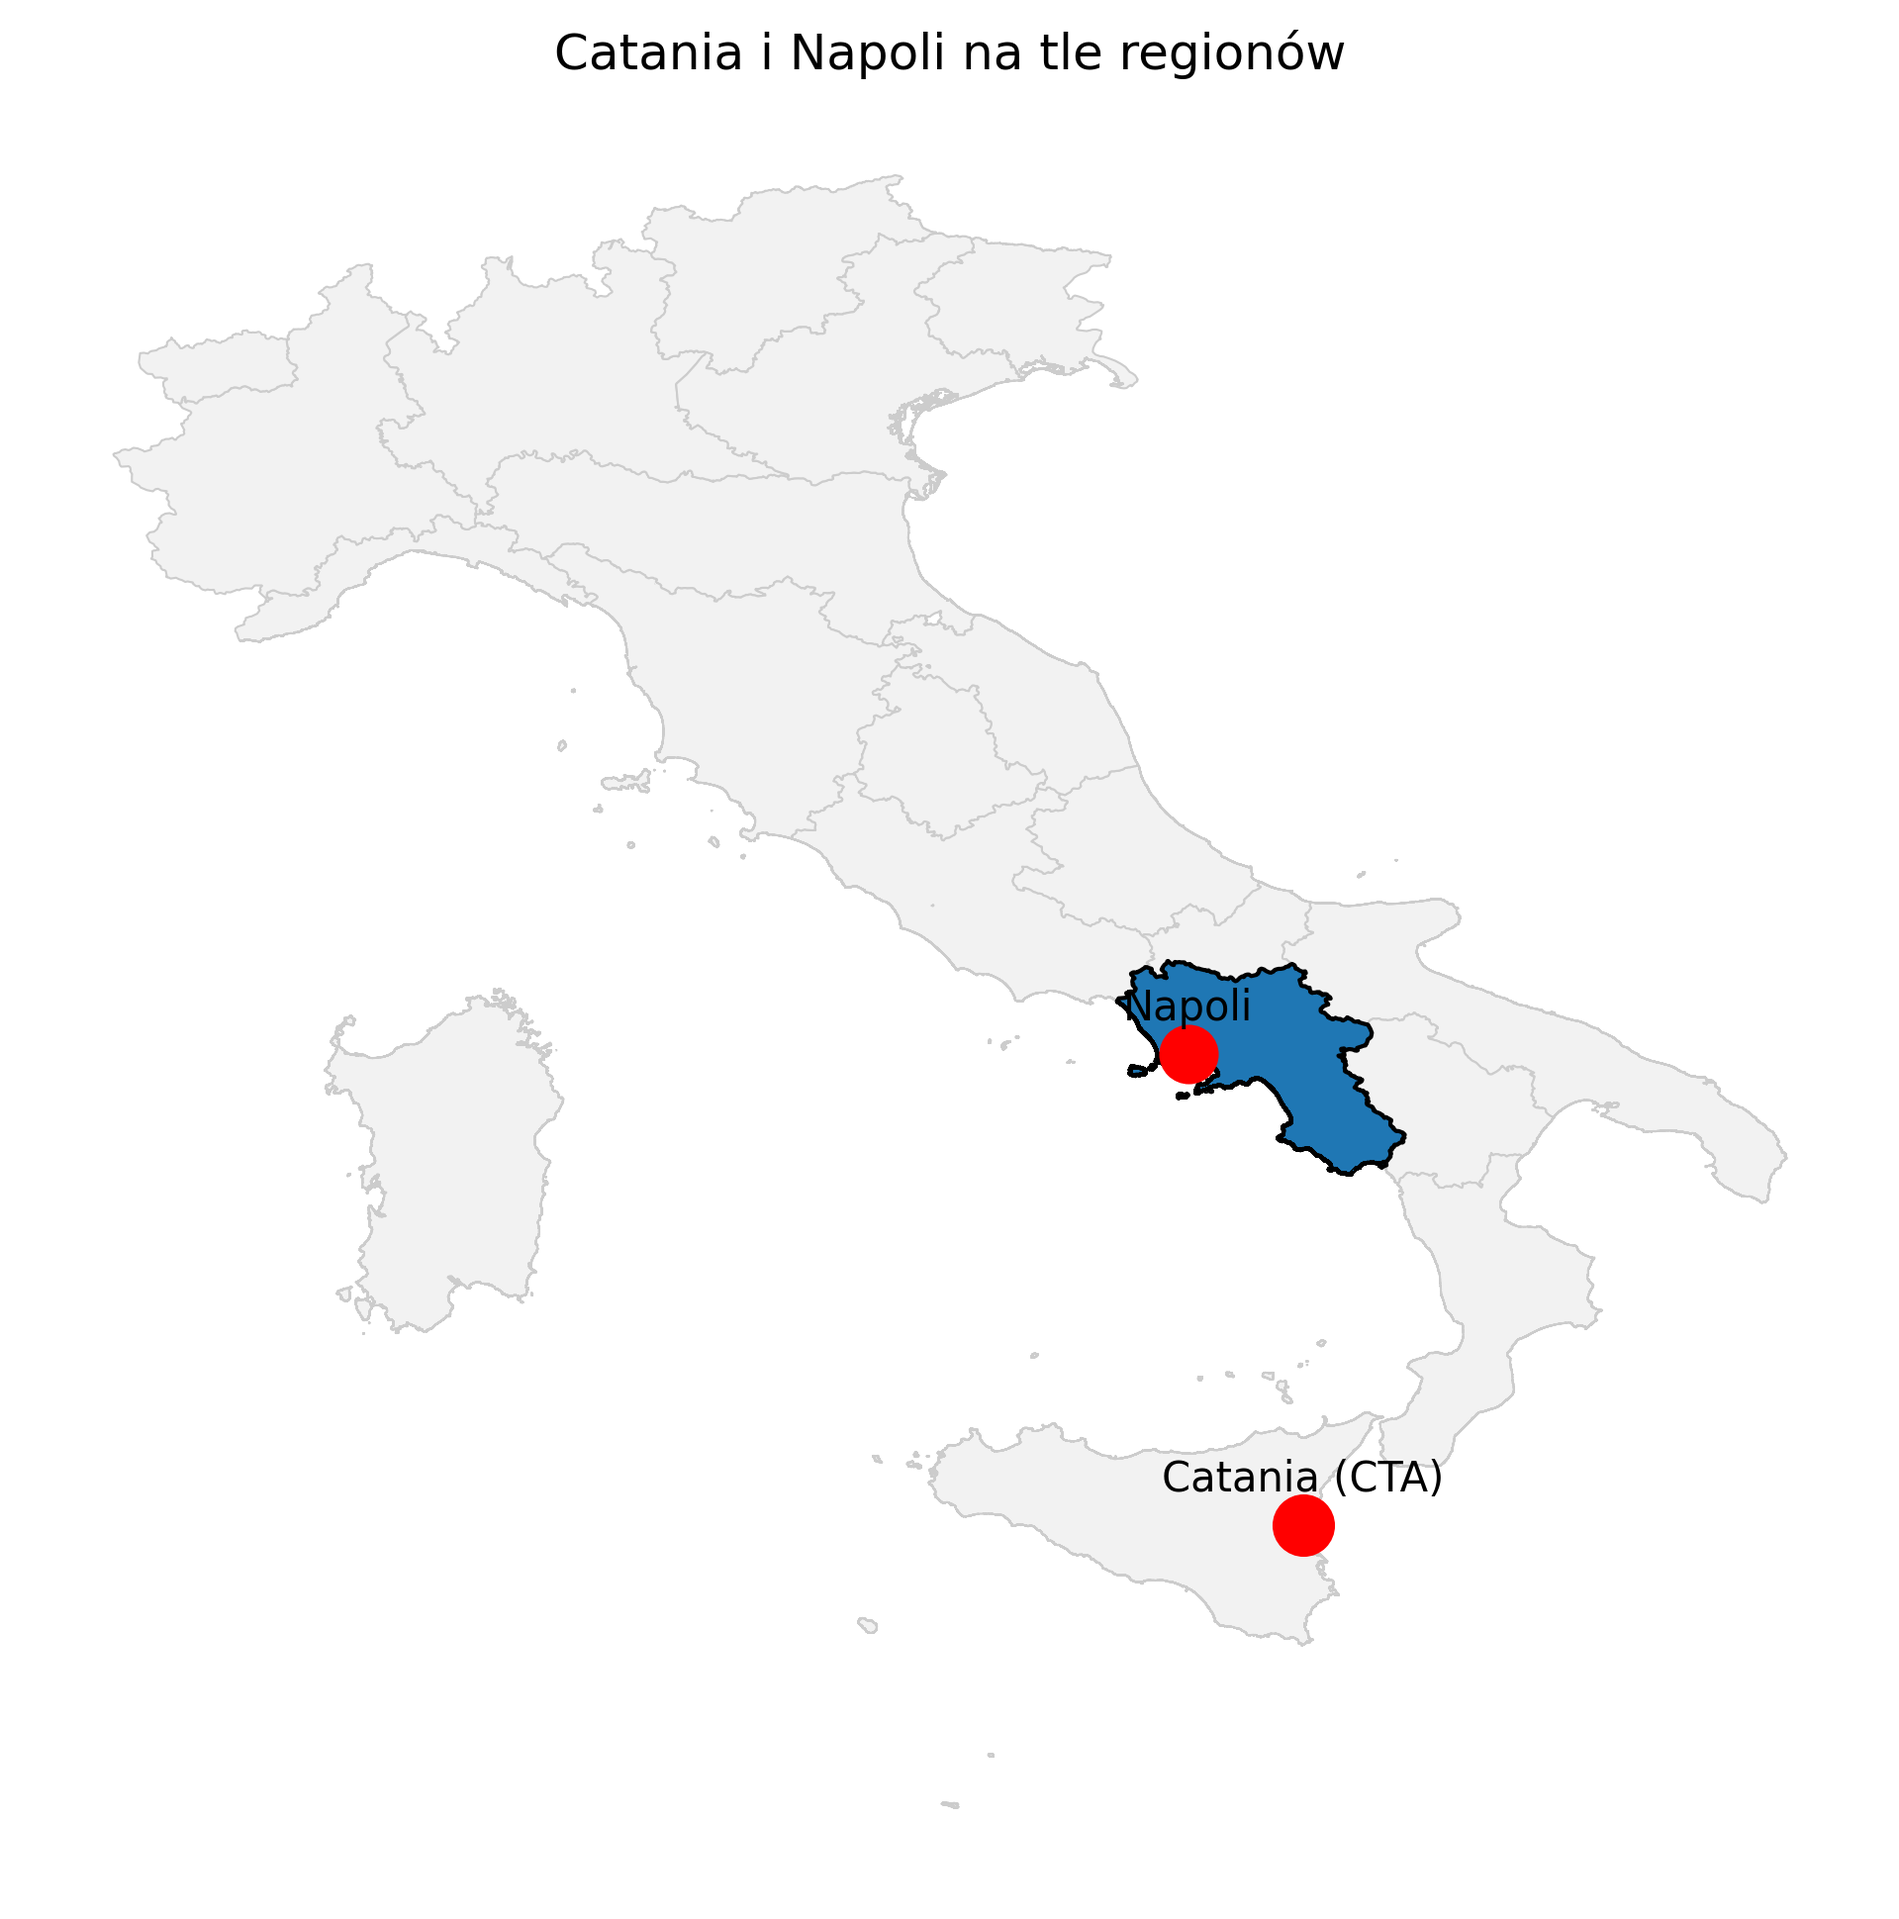
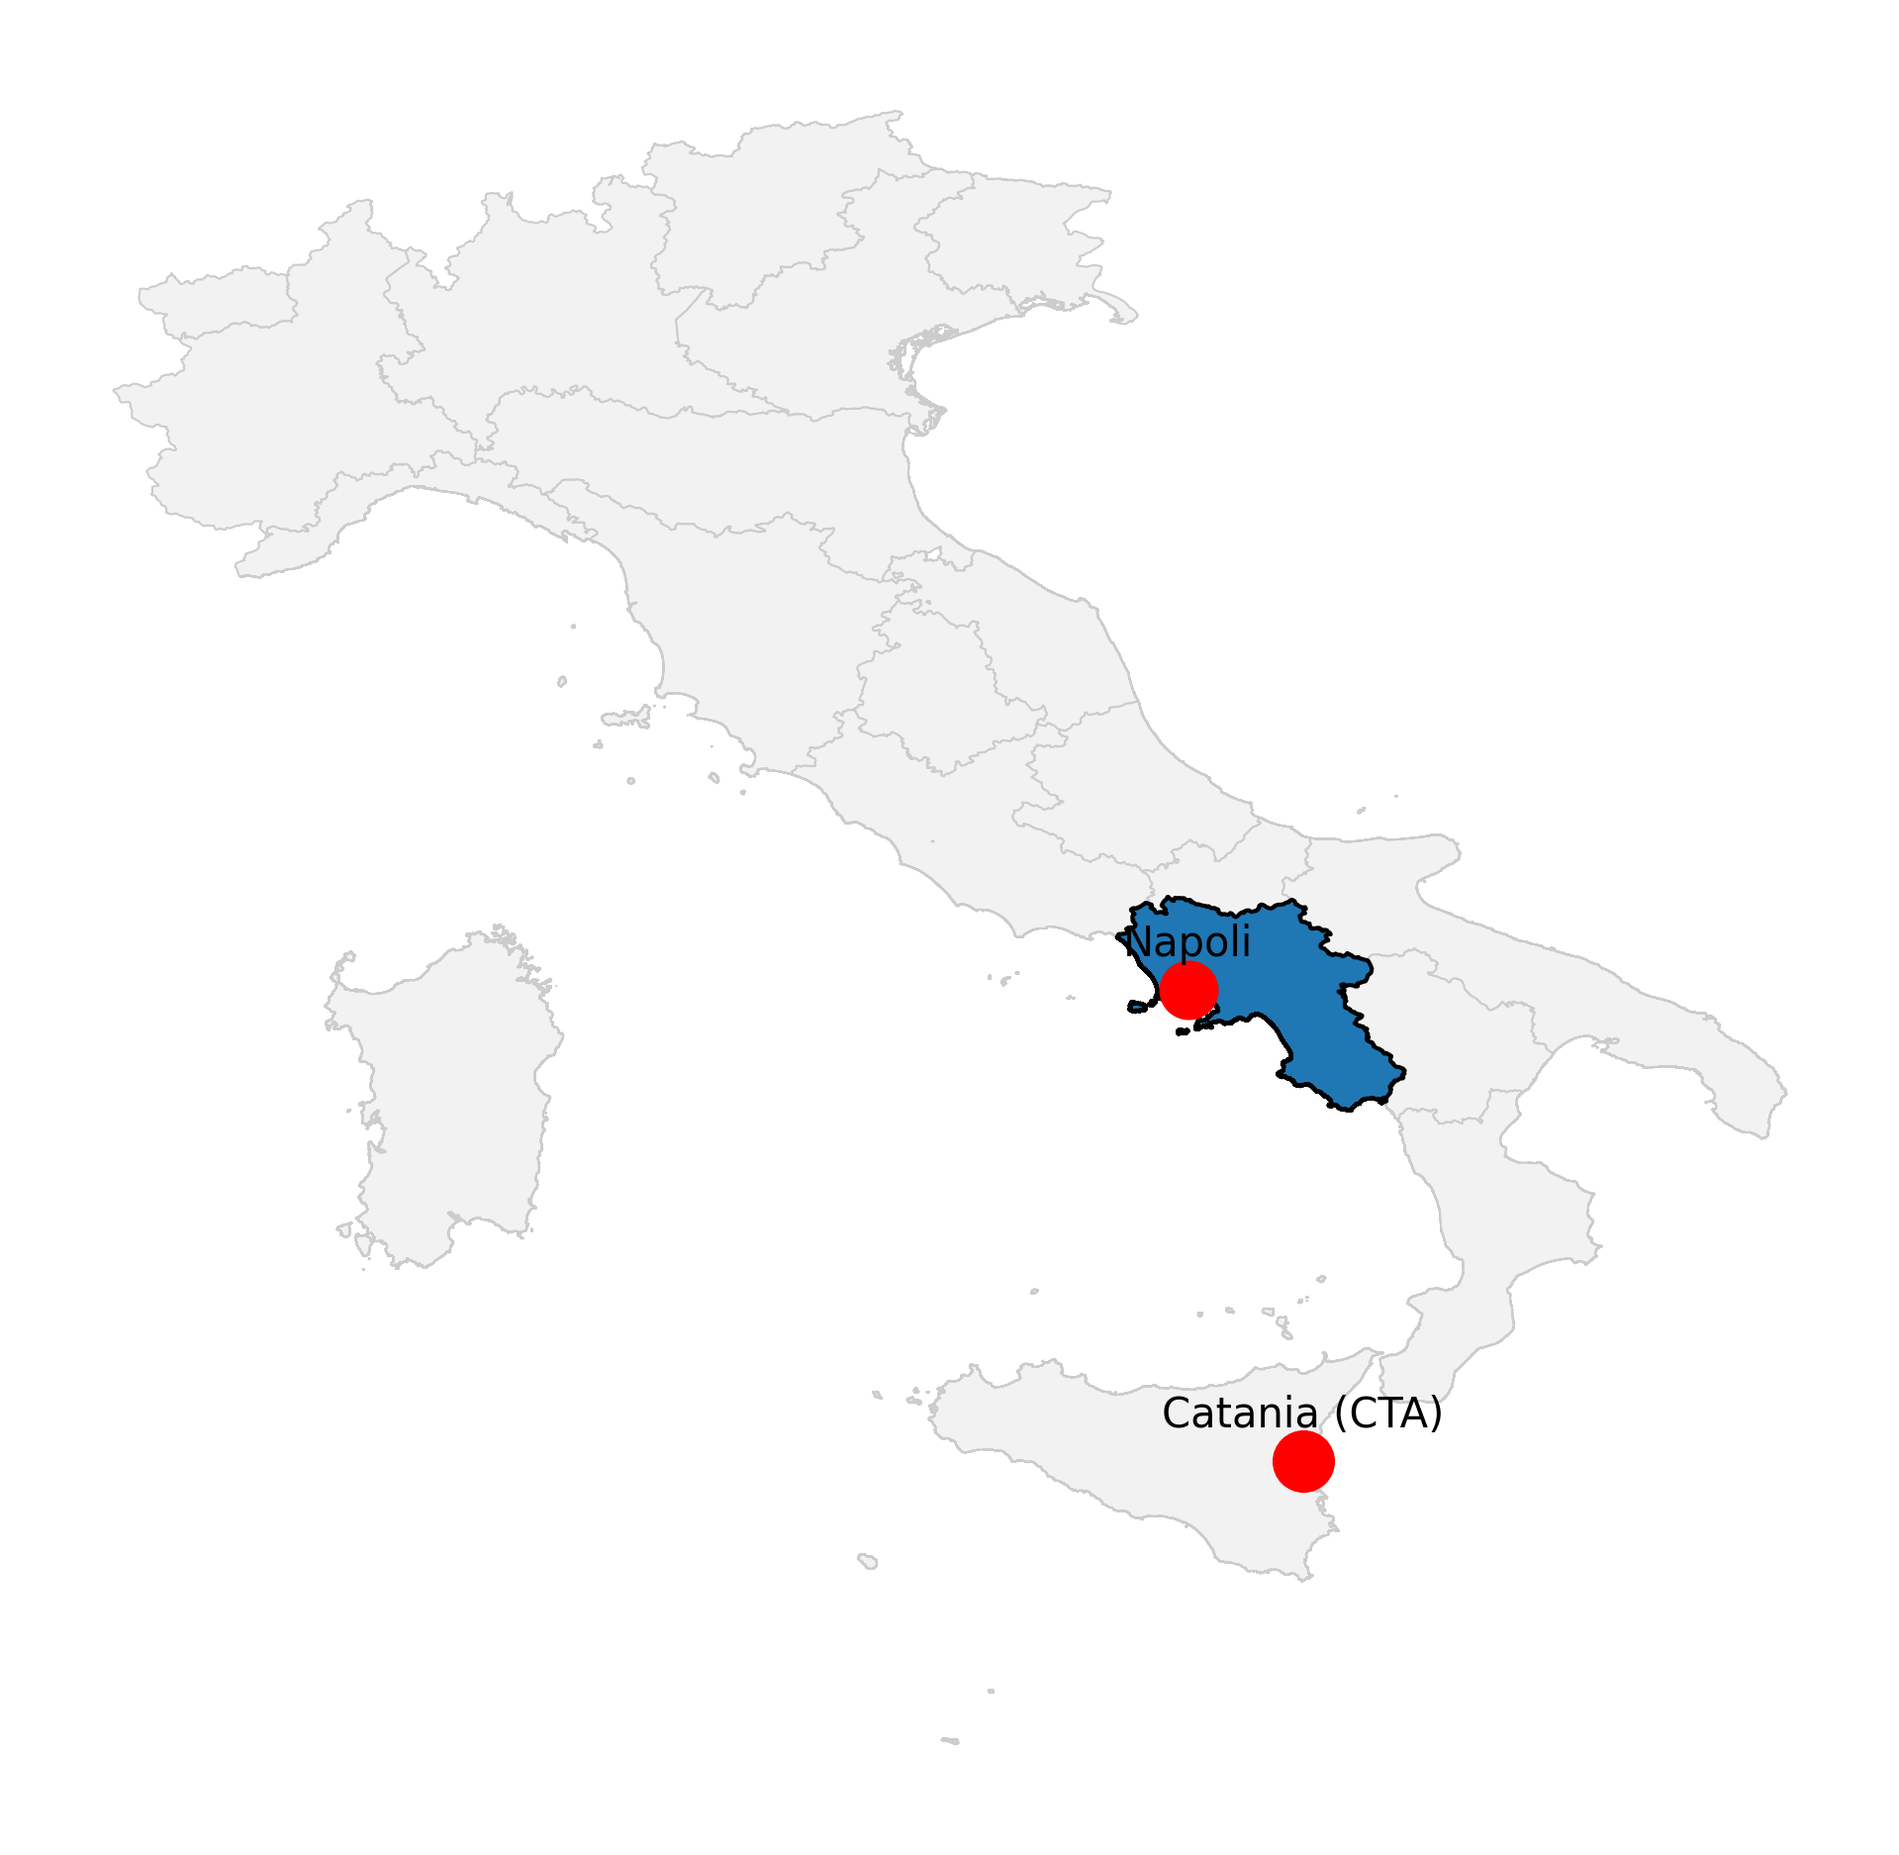
Updating repo with new exercises

diff --git a/map.html b/map.html
@@ -1,0 +1,197 @@
+<!DOCTYPE html>
+<html>
+<head>
+    
+    <meta http-equiv="content-type" content="text/html; charset=UTF-8" />
+    <script src="https://cdn.jsdelivr.net/npm/leaflet@1.9.3/dist/leaflet.js"></script>
+    <script src="https://code.jquery.com/jquery-3.7.1.min.js"></script>
+    <script src="https://cdn.jsdelivr.net/npm/bootstrap@5.2.2/dist/js/bootstrap.bundle.min.js"></script>
+    <script src="https://cdnjs.cloudflare.com/ajax/libs/Leaflet.awesome-markers/2.0.2/leaflet.awesome-markers.js"></script>
+    <link rel="stylesheet" href="https://cdn.jsdelivr.net/npm/leaflet@1.9.3/dist/leaflet.css"/>
+    <link rel="stylesheet" href="https://cdn.jsdelivr.net/npm/bootstrap@5.2.2/dist/css/bootstrap.min.css"/>
+    <link rel="stylesheet" href="https://netdna.bootstrapcdn.com/bootstrap/3.0.0/css/bootstrap-glyphicons.css"/>
+    <link rel="stylesheet" href="https://cdn.jsdelivr.net/npm/@fortawesome/fontawesome-free@6.2.0/css/all.min.css"/>
+    <link rel="stylesheet" href="https://cdnjs.cloudflare.com/ajax/libs/Leaflet.awesome-markers/2.0.2/leaflet.awesome-markers.css"/>
+    <link rel="stylesheet" href="https://cdn.jsdelivr.net/gh/python-visualization/folium/folium/templates/leaflet.awesome.rotate.min.css"/>
+    
+            <meta name="viewport" content="width=device-width,
+                initial-scale=1.0, maximum-scale=1.0, user-scalable=no" />
+            <style>
+                #map_5f5148381c76a7a6cb5308b8fe52db0f {
+                    position: relative;
+                    width: 100.0%;
+                    height: 100.0%;
+                    left: 0.0%;
+                    top: 0.0%;
+                }
+                .leaflet-container { font-size: 1rem; }
+            </style>
+
+            <style>html, body {
+                width: 100%;
+                height: 100%;
+                margin: 0;
+                padding: 0;
+            }
+            </style>
+
+            <style>#map {
+                position:absolute;
+                top:0;
+                bottom:0;
+                right:0;
+                left:0;
+                }
+            </style>
+
+            <script>
+                L_NO_TOUCH = false;
+                L_DISABLE_3D = false;
+            </script>
+
+        
+</head>
+<body>
+    
+    
+            <div class="folium-map" id="map_5f5148381c76a7a6cb5308b8fe52db0f" ></div>
+        
+</body>
+<script>
+    
+    
+            var map_5f5148381c76a7a6cb5308b8fe52db0f = L.map(
+                "map_5f5148381c76a7a6cb5308b8fe52db0f",
+                {
+                    center: [41.87, 12.56],
+                    crs: L.CRS.EPSG3857,
+                    ...{
+  "zoom": 6,
+  "zoomControl": true,
+  "preferCanvas": false,
+}
+
+                }
+            );
+
+            
+
+        
+    
+            var tile_layer_66d8d411c008f0a65dcb6d50efeb89b3 = L.tileLayer(
+                "https://tile.openstreetmap.org/{z}/{x}/{y}.png",
+                {
+  "minZoom": 0,
+  "maxZoom": 19,
+  "maxNativeZoom": 19,
+  "noWrap": false,
+  "attribution": "\u0026copy; \u003ca href=\"https://www.openstreetmap.org/copyright\"\u003eOpenStreetMap\u003c/a\u003e contributors",
+  "subdomains": "abc",
+  "detectRetina": false,
+  "tms": false,
+  "opacity": 1,
+}
+
+            );
+        
+    
+            tile_layer_66d8d411c008f0a65dcb6d50efeb89b3.addTo(map_5f5148381c76a7a6cb5308b8fe52db0f);
+        
+    
+            var marker_378d054855aac833f572b4787d4664d1 = L.marker(
+                [37.5079, 15.083],
+                {
+}
+            ).addTo(map_5f5148381c76a7a6cb5308b8fe52db0f);
+        
+    
+            var icon_213af4564702809bba39d4a221f38bb2 = L.AwesomeMarkers.icon(
+                {
+  "markerColor": "blue",
+  "iconColor": "white",
+  "icon": "info-sign",
+  "prefix": "glyphicon",
+  "extraClasses": "fa-rotate-0",
+}
+            );
+        
+    
+        var popup_6bc5550e43bda6d302a4c6ad0ddca9a6 = L.popup({
+  "maxWidth": "100%",
+});
+
+        
+            
+                var html_eef2f91adcfb24223031f891b41dc42c = $(`<div id="html_eef2f91adcfb24223031f891b41dc42c" style="width: 100.0%; height: 100.0%;">Catania</div>`)[0];
+                popup_6bc5550e43bda6d302a4c6ad0ddca9a6.setContent(html_eef2f91adcfb24223031f891b41dc42c);
+            
+        
+
+        marker_378d054855aac833f572b4787d4664d1.bindPopup(popup_6bc5550e43bda6d302a4c6ad0ddca9a6)
+        ;
+
+        
+    
+    
+            marker_378d054855aac833f572b4787d4664d1.bindTooltip(
+                `<div>
+                     Catania
+                 </div>`,
+                {
+  "sticky": true,
+}
+            );
+        
+    
+                marker_378d054855aac833f572b4787d4664d1.setIcon(icon_213af4564702809bba39d4a221f38bb2);
+            
+    
+            var marker_331ca317464d15ac110d0b92f482151a = L.marker(
+                [40.8522, 14.2681],
+                {
+}
+            ).addTo(map_5f5148381c76a7a6cb5308b8fe52db0f);
+        
+    
+            var icon_3783ba9f90435c6fca68262f52cbc163 = L.AwesomeMarkers.icon(
+                {
+  "markerColor": "green",
+  "iconColor": "white",
+  "icon": "info-sign",
+  "prefix": "glyphicon",
+  "extraClasses": "fa-rotate-0",
+}
+            );
+        
+    
+        var popup_2d6616a8ab3d8897a33494d82ad7ac2a = L.popup({
+  "maxWidth": "100%",
+});
+
+        
+            
+                var html_512f069cf83d188fa97c01990030d60f = $(`<div id="html_512f069cf83d188fa97c01990030d60f" style="width: 100.0%; height: 100.0%;">Napoli</div>`)[0];
+                popup_2d6616a8ab3d8897a33494d82ad7ac2a.setContent(html_512f069cf83d188fa97c01990030d60f);
+            
+        
+
+        marker_331ca317464d15ac110d0b92f482151a.bindPopup(popup_2d6616a8ab3d8897a33494d82ad7ac2a)
+        ;
+
+        
+    
+    
+            marker_331ca317464d15ac110d0b92f482151a.bindTooltip(
+                `<div>
+                     Napoli
+                 </div>`,
+                {
+  "sticky": true,
+}
+            );
+        
+    
+                marker_331ca317464d15ac110d0b92f482151a.setIcon(icon_3783ba9f90435c6fca68262f52cbc163);
+            
+</script>
+</html>

diff --git a/test.py b/test.py
@@ -1,0 +1,26 @@
+import folium
+
+CTA = ("Catania", 37.5079, 15.0830)
+NAP = ("Napoli", 40.8522, 14.2681)
+
+m = folium.Map(
+    location=(41.87, 12.56),
+    zoom_start=6,
+    tiles="OpenStreetMap"
+)
+
+folium.Marker(
+    location=[CTA[1], CTA[2]],
+    popup=CTA[0],
+    tooltip=CTA[0],
+    icon=folium.Icon(color="blue")
+).add_to(m)
+
+folium.Marker(
+    location=[NAP[1], NAP[2]],
+    popup=NAP[0],
+    tooltip=NAP[0],
+    icon=folium.Icon(color="green")
+).add_to(m)
+
+m.save("map.html")

diff --git a/workshop_3.py b/workshop_3.py
@@ -1,0 +1,20 @@
+import matplotlib.pyplot as plt
+
+CTA = ("Catania (CTA)", -2.2, 0.0)
+NAP = ("Napoli (NAP)", 2.0, 0.0)
+
+def circle_points(cx, cy, r, n):
+    pts = []
+    n = max(1, n)
+    for i in range(n):
+        theta = 2 * math.pi * i / n
+        pts.append((cx + r * math.cos(theta), cy + r * math.sin(theta)))
+    return pts
+
+fig, ax = plt.subplots(figsize=(10, 6))
+
+ax.plot([CTA[1], NAP[1]], [CTA[2], NAP[2]])
+
+#names
+
+plt.show()

diff --git a/workshop_2.py b/workshop_2.py
@@ -27,6 +27,5 @@ for (name, lon, lat), size, dy in [(CTA, 200, 0.18), (NAP, 180, 0.18)]:
 
 ax.set_aspect("equal")
 ax.set_axis_off()
-plt.title("Catania i Napoli na tle regionów")
 plt.savefig("sicilia_napoli_geopandas.png", dpi=300, bbox_inches="tight")
 plt.show()
